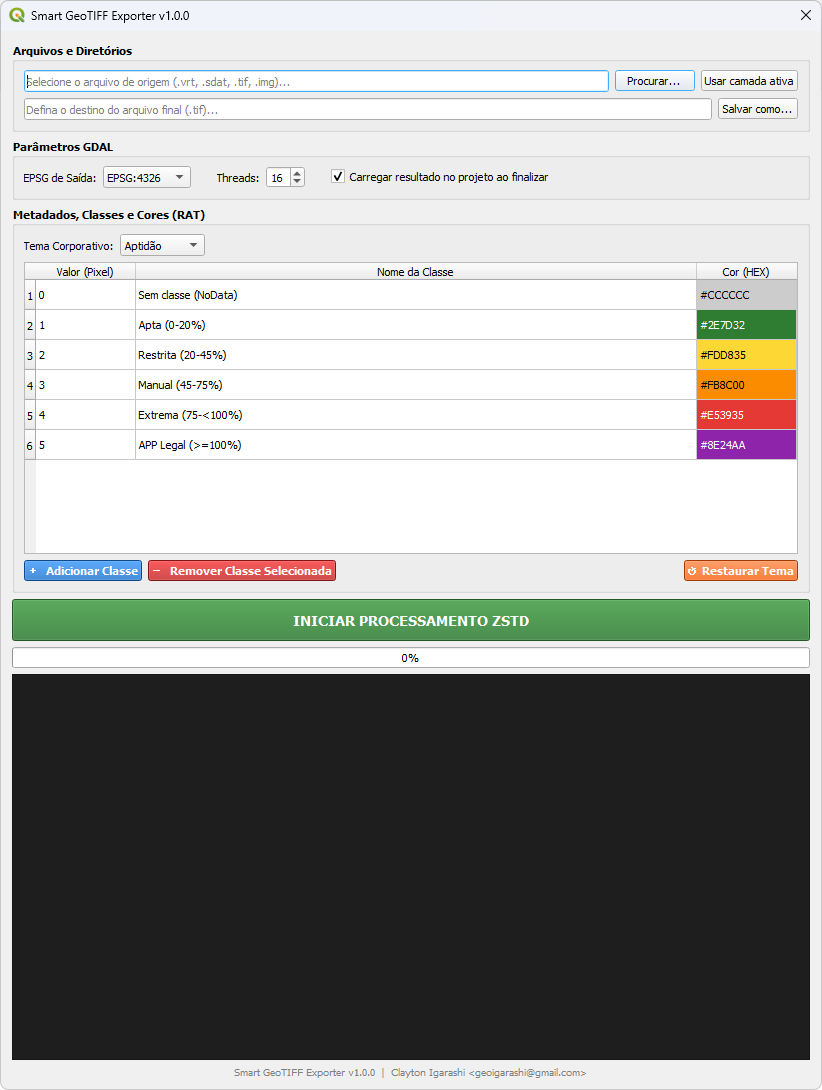
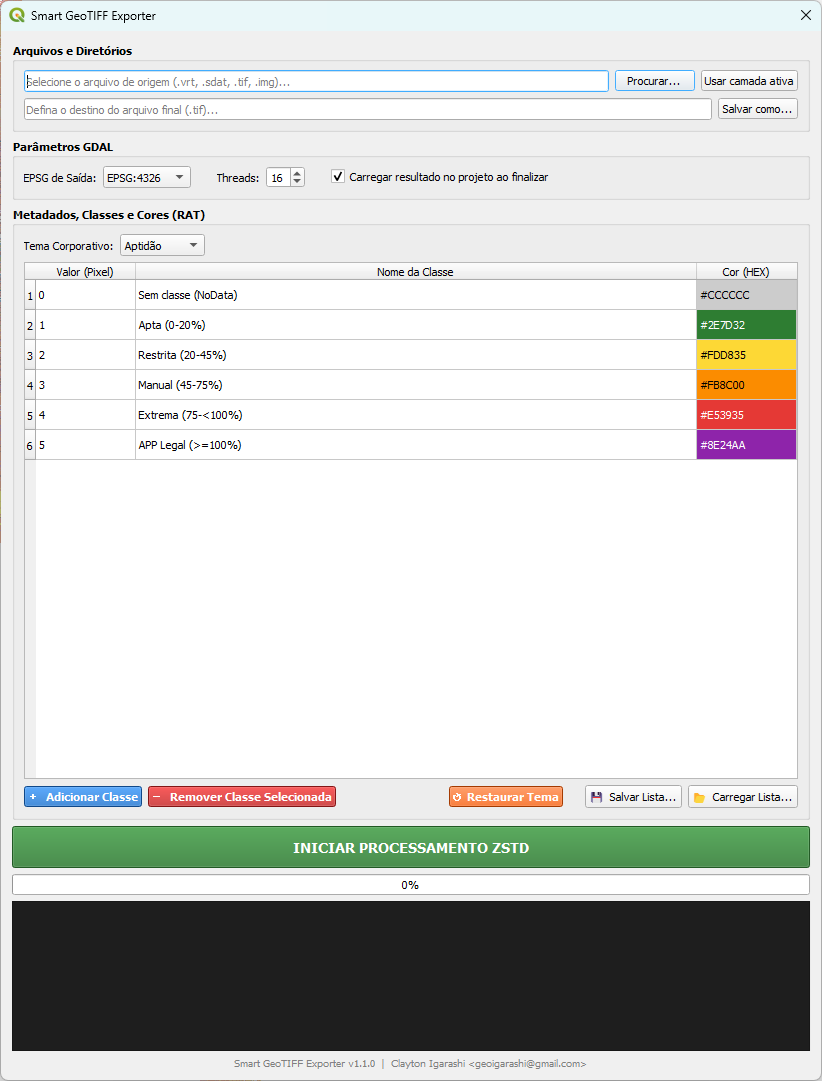
docs: atualizar README com funcionalidades da v1.1.0 e screenshots

diff --git a/README.md b/README.md
@@ -40,7 +40,9 @@ Ele encapsula em uma única interface dentro do QGIS todo o pipeline que antes e
 ## Funcionalidades
 
 - Temas corporativos pré-definidos: **Aptidão**, **Declividade** e **Uso do Solo**
-- **Tabela de classes editável**: adicione, remova ou edite linhas para criar paletas personalizadas
+- **Tabela de classes totalmente editável**: adicione, remova e edite qualquer célula — incluindo a coluna **Valor (Pixel)** — com validação automática de duplicatas
+- **Salvar/Carregar listas de classes** em `.json` para reutilização em projetos futuros
+- **Importação de paleta a partir de `.qml`** do QGIS — reaproveite estilos já criados no projeto diretamente na tabela RAT
 - **Botão "Usar camada ativa"**: importa o caminho da camada selecionada no projeto sem navegar pelo sistema de arquivos
 - **Checkbox de carregamento automático**: ao finalizar, a camada exportada entra direto no mapa com estilo aplicado
 - Suporte a múltiplos sistemas de referência: EPSG:4326, 4674, 31982, 31983, 31984
@@ -130,9 +132,13 @@ Se a opção **"Carregar resultado no projeto"** estiver marcada, a camada é ca
 
 É possível editar a tabela de classes livremente antes de processar:
 
-- **Editar** nome ou cor HEX diretamente na célula
+- **Editar** qualquer célula — incluindo a coluna **Valor (Pixel)** — diretamente na tabela; valores inválidos ou duplicados são rejeitados com aviso e revertidos automaticamente
 - **Adicionar linha** para inserir uma nova classe personalizada
 - **Remover linha** para excluir uma classe que não existe no raster
+- **💾 Salvar Lista...** — exporta as classes atuais para um arquivo `.json` reutilizável em processamentos futuros
+- **📂 Carregar Lista...** — importa classes a partir de:
+  - `.json` salvo anteriormente pelo plugin
+  - `.qml` do QGIS (renderer *paletted*) — ideal para reaproveitar estilos já existentes no projeto
 
 Isso permite usar o plugin com qualquer raster classificado, sem se limitar aos temas pré-definidos.
 
